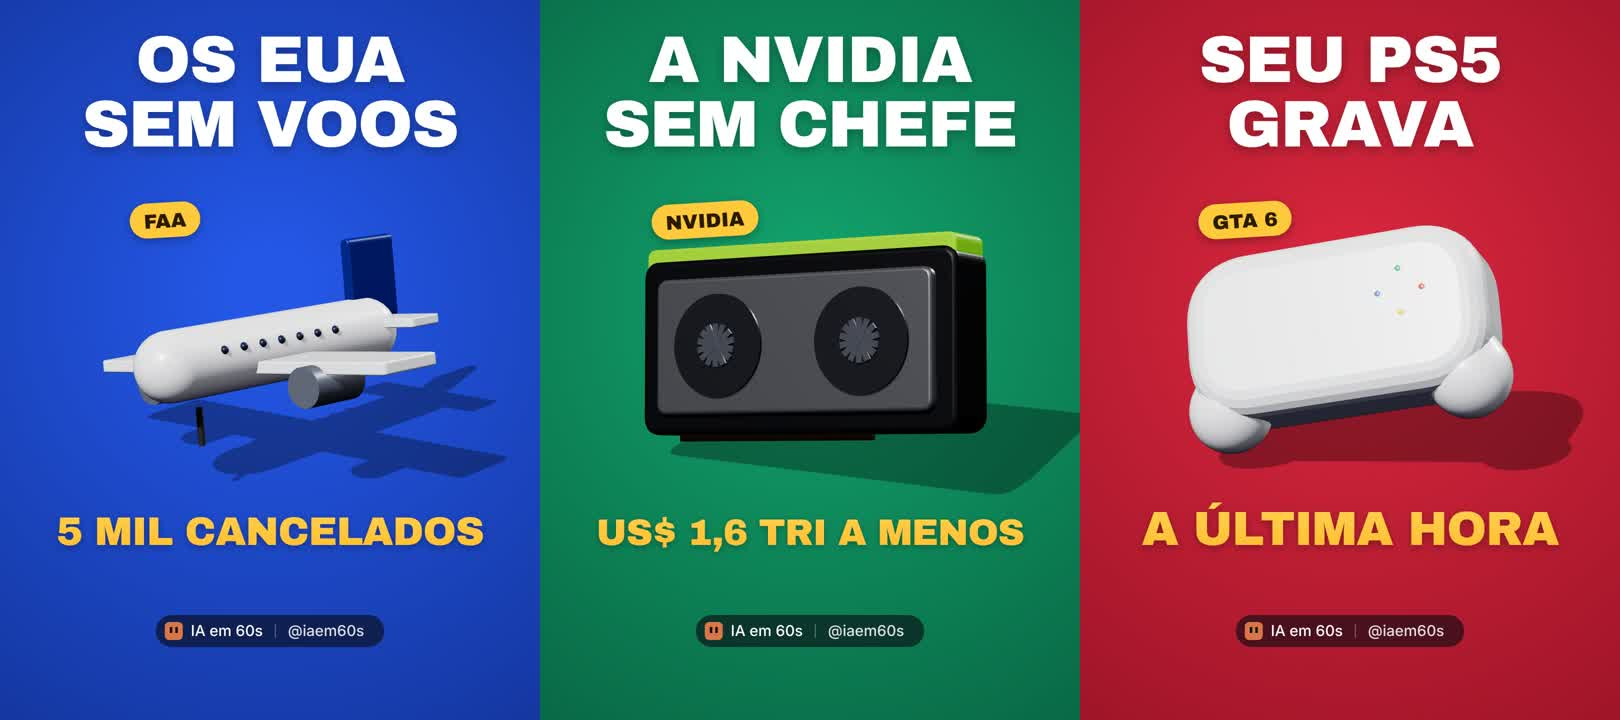
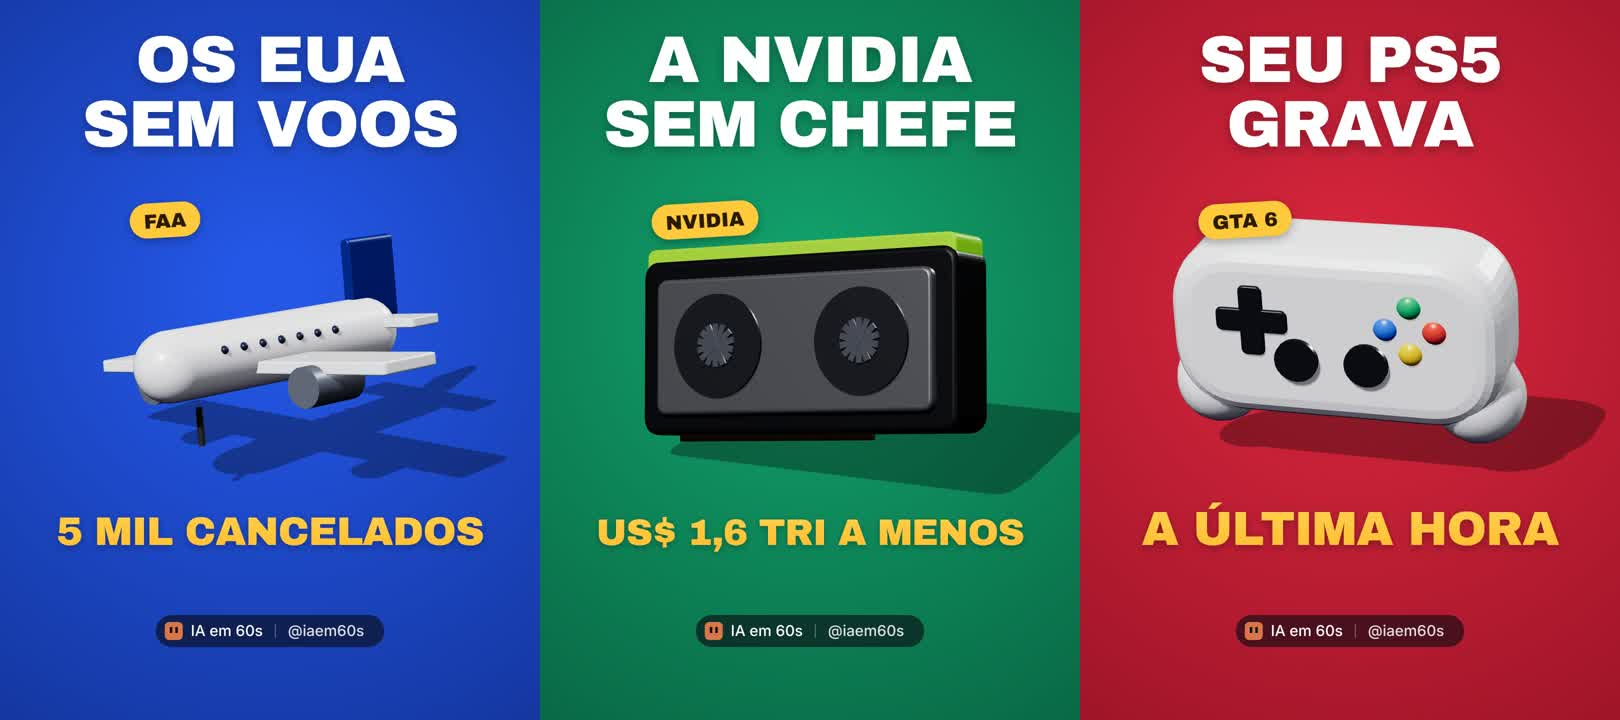
Capa clean aprovada: capas novas de Voos, Nvidia e GTA 6; controle refinado
Claude-Session: https://claude.ai/code/session_01Q8XwFpKuzmvUWLVYJtp14d

Changed region(s): [[0.7099, 0.3056, 1.0, 0.6722]]

diff --git a/ia/painel/capa_clean/index.html b/ia/painel/capa_clean/index.html
@@ -37,10 +37,10 @@ const OBJ = {
     add(new THREE.BoxGeometry(2.2, .14, .06), P('#d4a017', { metalness: .9, roughness: .2 }), g, -.4, .35, 0); add(rbox(3.4, .2, .5, .06), P('#76b900', { emissive: '#76b900', emissiveIntensity: .25 }), g, 0, 2.05, 0);
     g.rotation.set(-.35, -.55, 0); g.position.y = .2; return g; },
   controle() { const g = new THREE.Group(); const m = P('#f2f3f6'); add(rbox(2.6, 1.2, .5, .45), m, g, 0, 1.2, 0); for (const s of [-1, 1]) { const a = add(new THREE.CapsuleGeometry(.42, .7, 8, 24), m, g, s * 1.05, .85, 0); a.rotation.z = s * .5; }
-    const pr = P('#22252c'); add(rbox(.62, .18, .12, .04), pr, g, -.72, 1.35, .36); add(rbox(.18, .62, .12, .04), pr, g, -.72, 1.35, .36);
-    [['#2bb673', 0, .22], ['#e74c3c', .22, 0], ['#3b82f6', -.22, 0], ['#f5c518', 0, -.22]].forEach(([c, x, y]) => add(new THREE.SphereGeometry(.1, 20, 20), P(c), g, .72 + x, 1.35 + y, .38));
-    for (const x of [-.32, .32]) add(new THREE.CylinderGeometry(.2, .2, .2, 24), pr, g, x, 1.0, .36).rotation.x = Math.PI / 2;
-    g.rotation.set(-.55, -.3, .08); g.position.y = .4; return g; },
+    const pr = P('#22252c'); add(rbox(.62, .18, .12, .04), pr, g, -.72, 1.35, .42); add(rbox(.18, .62, .12, .04), pr, g, -.72, 1.35, .42);
+    [['#2bb673', 0, .22], ['#e74c3c', .22, 0], ['#3b82f6', -.22, 0], ['#f5c518', 0, -.22]].forEach(([c, x, y]) => add(new THREE.SphereGeometry(.13, 20, 20), P(c), g, .72 + x, 1.35 + y, .4));
+    for (const x of [-.32, .32]) add(new THREE.CylinderGeometry(.2, .2, .2, 24), pr, g, x, 1.0, .42).rotation.x = Math.PI / 2;
+    g.rotation.set(.15, -.28, .05); g.position.y = .2; return g; },
   mascote() { const g = new THREE.Group(); const c = P('#d9774a', { clearcoat: .2 }); add(rbox(1.9, 1.25, 1.0, .12), c, g, 0, 1.3, 0); for (const s of [-1, 1]) add(rbox(.38, .38, .4, .08), c, g, s * 1.15, 1.25, 0);
     for (const s of [-1, 1]) add(rbox(.13, .36, .06, .05), P('#111'), g, s * .35, 1.42, .53); for (let i = 0; i < 4; i++) add(rbox(.2, .5, .2, .05), c, g, -.66 + i * .44, .38, 0); g.rotation.y = -.35; return g; },
 };

diff --git a/ia/painel/index.html b/ia/painel/index.html
@@ -73,7 +73,7 @@ nav .badge{position:absolute;top:0;left:56%;min-width:18px;padding:0 5px;border-
 details.resp textarea{width:100%;box-sizing:border-box;background:var(--bg);color:var(--tx);border:1px solid var(--line);border-radius:8px;font-size:12px;padding:6px}button.copiar{display:block;width:100%;margin:6px 0;padding:9px;border-radius:10px;border:1px solid var(--line);background:#e8834a;color:#fff;font-weight:600}details.resp p{font-size:12px;margin:6px 0 2px}
 .vazio{text-align:center;color:var(--mut);padding:30px 10px}
 </style></head><body data-tab="aprovar">
-<header><h1>IA em 60s<small>atualizado 14/11 02:50 · Metricool 2026-11-11 23:36</small></h1>
+<header><h1>IA em 60s<small>atualizado 14/11 02:58 · Metricool 2026-11-11 23:36</small></h1>
 <button id="sino" class="ib" style="display:none">🔔 Ativar</button><button id="atualizar" class="ib" onclick="location.replace('/?t=' + Date.now() + location.hash)">↻</button></header>
 <main>
 <section class="aba aba-aprovar">

diff --git a/ia/AGENTE.md b/ia/AGENTE.md
@@ -128,7 +128,7 @@ Modelo: `posts/2026-11-10-9-dias-pro-gta-6/` + `video/cena_gta/` (Referência 14
 - **Duração:** pode passar de 35 s quando a história pede (o GTA tem ~50 s), mantendo ≤ 3,0 palavras/s.
 Motor: copie `video/cena_gta/index.html` (helpers `neon`, `flap`, `odometro`, `estrelas`, `cartaoBranco`, `SHOT` por cena) e troque mundo, paleta e cenas; teste com `node cena_gta/teste.js` e renderize com `CENA=<pasta>/index.html node cena_quarto/render_quarto.js`. O objetivo é ser a referência: cada vídeo novo tem que superar o anterior em pelo menos um detalhe (profundidade, efeito ou acabamento).
 
-## Visual "clean" (Vitor, 14/11: "absorva as referências; quero mais organizado, clean, menos infantil"; Referência 15, @clubedasskills)
+## Visual "clean" (Vitor, 14/11: "absorva as referências; quero mais organizado, clean, menos infantil"; Referência 15, @clubedasskills; modelo APROVADO pelo Vitor em 14/11)
 Vale para **toda capa nova** e para o texto na tela dos vídeos novos; substitui a capa neon/pôr do sol do padrão "perfil referência".
 - **Capa:** `node painel/capa_clean/render.js <saida.jpg> '{"cor":"azul|vermelho|roxo|verde|magenta|laranja","titulo":"...","etiqueta":"...","objeto":"aviao|chip|controle|mascote","sub":"..."}'` (com `python3 -m http.server 8792` rodando em `ia/`). Esqueleto fixo: fundo de 1 cor sólida (troque a cor a cada post), título branco de até ~4 palavras com número quando houver, etiqueta amarela curta, **um** objeto 3D de estúdio no centro, subtítulo dourado de 1 linha, barra da marca "IA em 60s | @iaem60s". Tudo dentro do recorte 3:4 (y 240–1680). Objeto novo = função nova em `OBJ` no `index.html` (formas limpas, material liso, sem rosto de pessoa real nem logo de terceiros).
 - **Proibido daqui em diante:** contorno grosso roxo no texto, degradê rosa-laranja no título, neon, confete, emoji na arte, várias pílulas na mesma tela, cenário cheio atrás do texto, letra "de criança" (Pricedown, Press Start 2P, Caveat).

diff --git a/ia/MEMORIA.md b/ia/MEMORIA.md
@@ -22,7 +22,7 @@ Toda sessão nova do painel lê este arquivo junto com o CLAUDE.md. Ele guarda o
 - **Foco de conteúdo (Vitor, 13/11):** fofoca da Nvidia (renúncia do Jensen Huang em 12/11) e GTA 6 (sai 19/11; como clipar). Roteiros feitos em 13/11: `2026-11-16-nvidia-perdeu-o-chefe` (25%) e `2026-11-19-ps5-grava-seu-gta-6` (48%), os dois **descartados pelo filtro** (sem apagar). Se o Vitor quiser furar o corte, é decisão dele.
 
 ## Visual clean (14/11)
-- Vitor mandou prints do @clubedasskills: "mais organizado, clean, menos infantil". Modelo de capa novo em `painel/capa_clean/` (exemplos: Voos, Nvidia, GTA em `painel/capa_clean/exemplos.jpg`); regra "Visual clean" no AGENTE.md. Falta: aplicar a mesma linguagem no texto dos vídeos (motor do vídeo ainda usa contorno/neon) e melhorar o objeto "controle".
+- Vitor mandou prints do @clubedasskills: "mais organizado, clean, menos infantil". Modelo de capa novo **aprovado em 14/11** em `painel/capa_clean/` (exemplos: Voos, Nvidia, GTA em `painel/capa_clean/exemplos.jpg`); regra "Visual clean" no AGENTE.md. Falta: aplicar a mesma linguagem no texto dos vídeos (motor do vídeo ainda usa contorno/neon) . Capa clean do Reel dos voos pronta em `posts/2026-11-13-eua-pararam-os-voos/capa_instagram_clean.jpg`: o Vitor troca à mão no app do Instagram (Reel já publicado).
 - 14/11 00:10: Reel "EUA pararam os voos" publicado no IG (pedido direto do Vitor); TikTok e story às 03:05.
 
 ## Depende do Vitor
